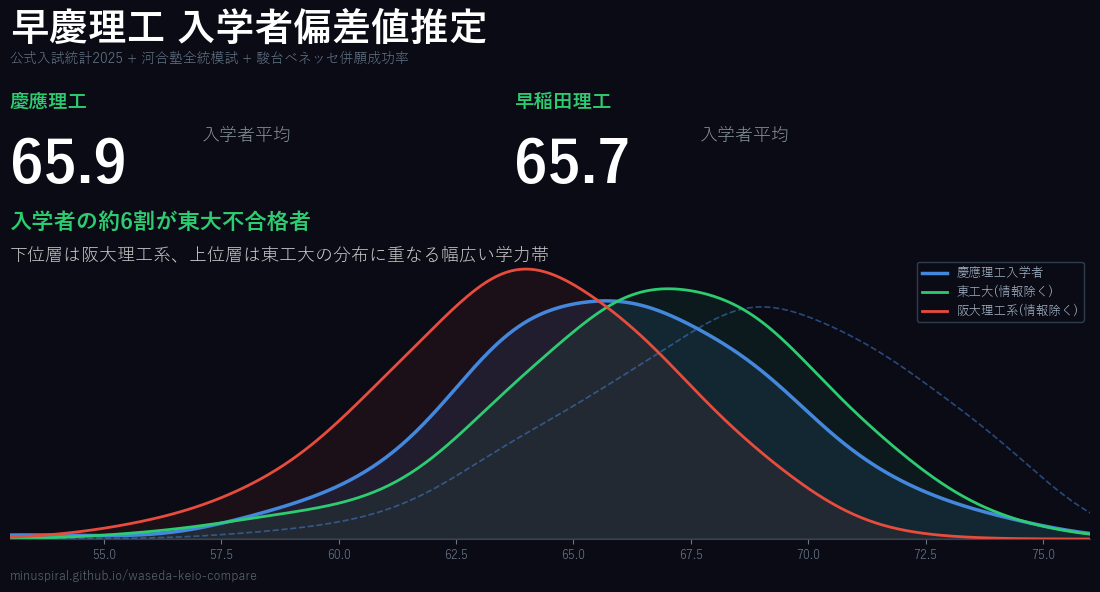
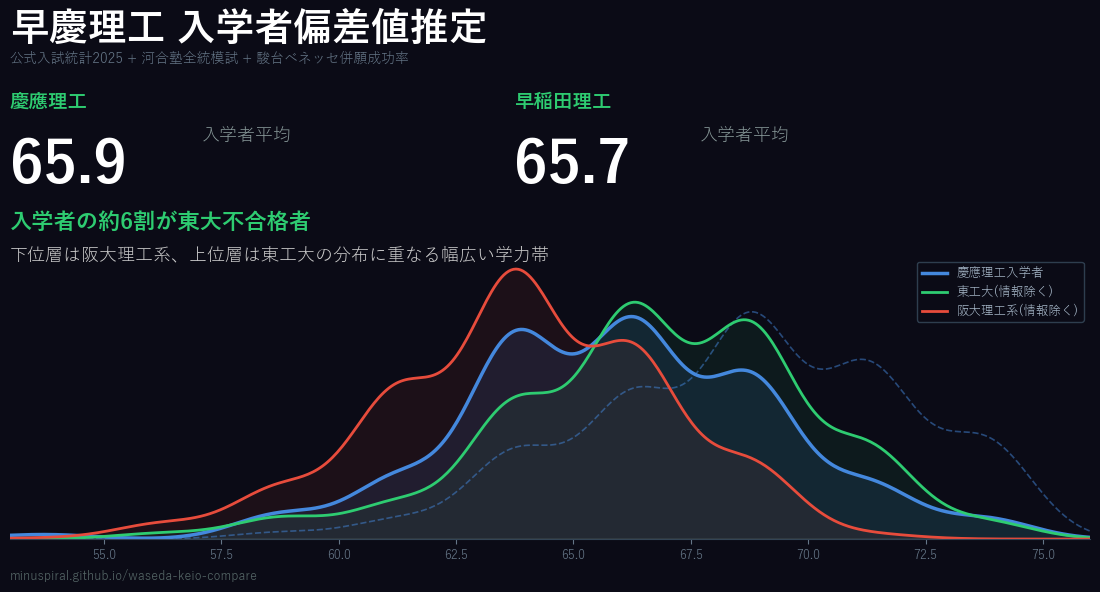
OGP画像のKDE bandwidth 1.5→1.0: 歪度の再現性を改善

diff --git a/gen_ogp.py b/gen_ogp.py
@@ -62,7 +62,7 @@ titec = np.array([0,0,3,11,18,69,117,108,47,9,0])
 osaka = np.array([0,1,15,49,142,254,181,73,5,0,0])  # 阪大理工系
 
 # --- KDE ---
-def make_kde(data, mids, bw=1.5):
+def make_kde(data, mids, bw=1.0):
     samples = np.repeat(mids, data.astype(int))
     if len(samples) == 0:
         return None, None
@@ -70,10 +70,10 @@ def make_kde(data, mids, bw=1.5):
     x = np.linspace(52, 78, 500)
     return x, kde(x)
 
-x_ke, y_ke = make_kde(kEnr, KM, 1.5)
-x_kp, y_kp = make_kde(kAll * KSC, KM, 1.5)
-x_ti, y_ti = make_kde(titec, MR, 1.5)
-x_os, y_os = make_kde(osaka, MR, 1.5)
+x_ke, y_ke = make_kde(kEnr, KM, 1.0)
+x_kp, y_kp = make_kde(kAll * KSC, KM, 1.0)
+x_ti, y_ti = make_kde(titec, MR, 1.0)
+x_os, y_os = make_kde(osaka, MR, 1.0)
 
 # Compute averages for display
 keio_enr_avg = np.sum(kEnr * KM) / np.sum(kEnr)
